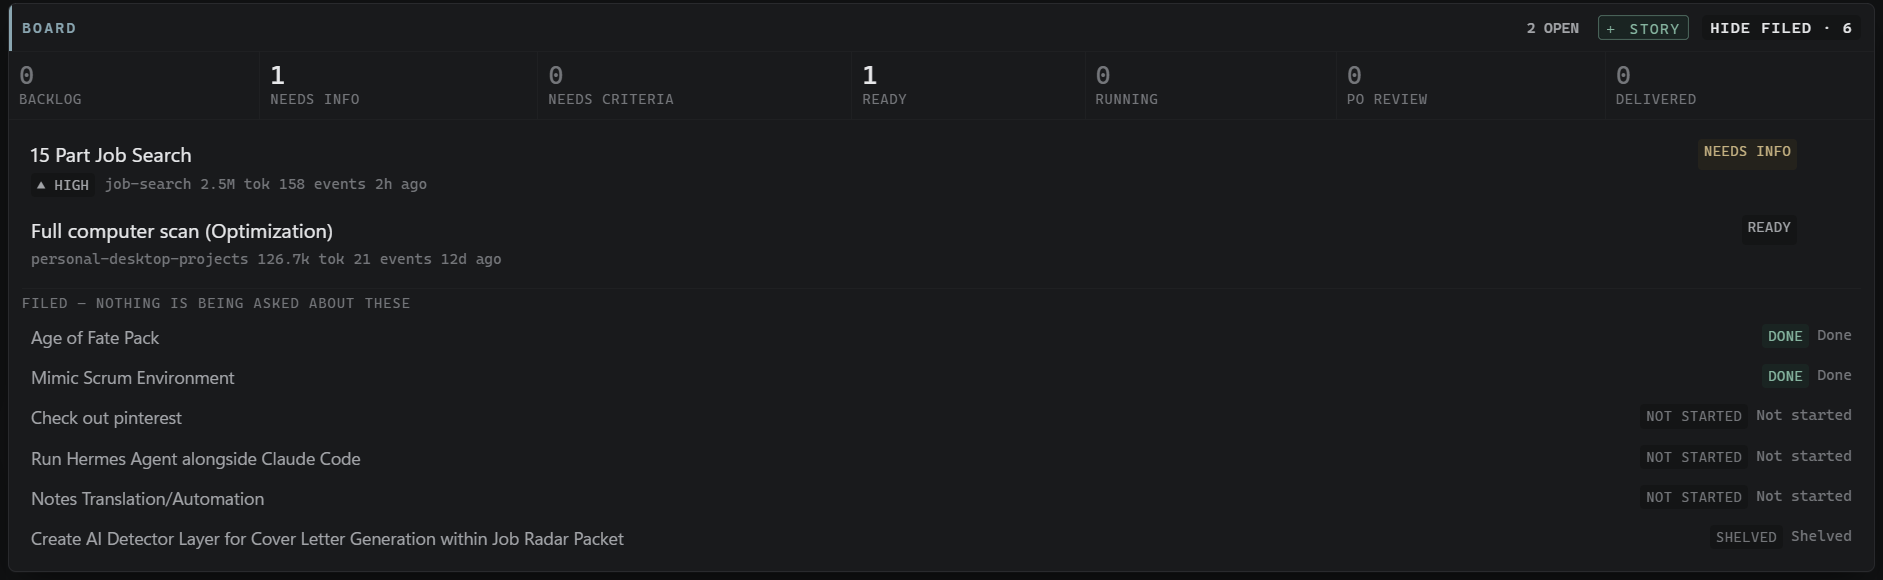
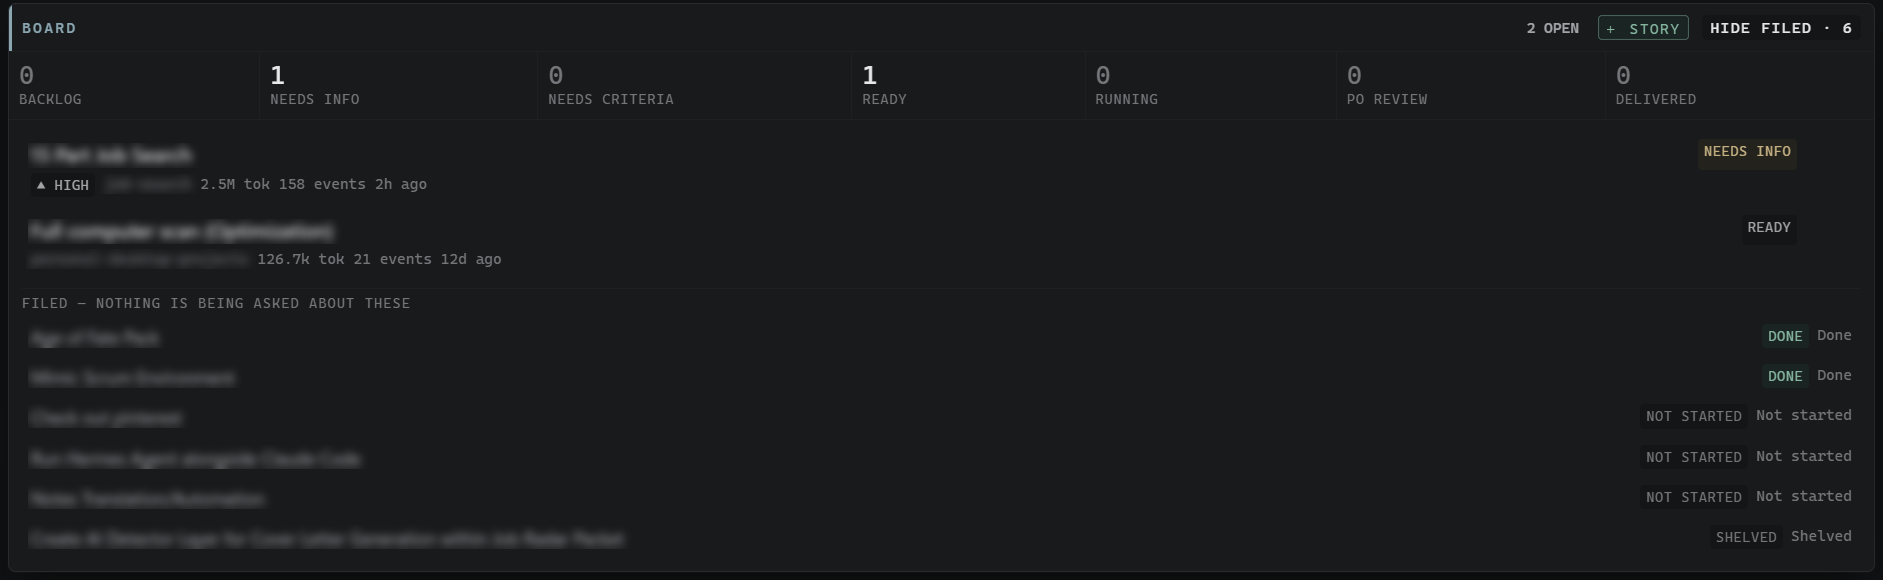
Exit a headless launch that did not bind the port
A headless launch that lost the bind race logged "reusing it" and then fell
into the sleep loop written for a process holding its own server thread. It
owned nothing and waited forever. Nine of them had piled up. `launch` now
tracks whether it actually bound the port, and a non-owner returns instead.

The two fallbacks out of the window path recursed back into `launch` to reach
that same sleep, which worked only because the recursion found the port taken
and idled anyway. They call `_idle` directly now, and only when they own it.

Screenshots: the folder names, story titles and chat messages in the README
images are one person's real projects and none of them are what the pictures
are there to show. Blurred, interface intact.

Claude-Session: https://claude.ai/code/session_01QoRDgDX5AspQmyNfwYoBaJ

diff --git a/tests/test_desktop.py b/tests/test_desktop.py
@@ -8,9 +8,12 @@ server was up, a QR code on screen, and a phone that loaded forever.
 
 from __future__ import annotations
 
+import contextlib
+import threading
 import unittest
 from unittest import mock
 
+import colony
 from colony import desktop
 
 LAN = "10.0.0.57"
@@ -46,6 +49,73 @@ class Reusable(unittest.TestCase):
         with self.marker(None):
             self.assertIsNone(desktop._reusable(desktop.HOST, 8787))
             self.assertIsNone(desktop._reusable(LAN, 8787))
+
+
+class HeadlessLaunchExits(unittest.TestCase):
+    """A headless launch that does not own the port has to end.
+
+    It used to log "reusing it" and then fall into the sleep loop meant for a
+    process holding its own daemon server thread. Nine of those had accumulated
+    before anyone counted the processes.
+    """
+
+    def setUp(self):
+        self.idled = []
+        # Lets a blocking stub server end with the test instead of
+        # spinning for the rest of the run.
+        self.released = threading.Event()
+        self.addCleanup(self.released.set)
+        idle = mock.patch.object(desktop, "_idle",
+                                 lambda: self.idled.append(True) or 0)
+        idle.start()
+        self.addCleanup(idle.stop)
+        for name, value in (("_wait_for_port", lambda h, p: True),
+                            ("_mark", lambda h, p: None),
+                            ("log", lambda *a, **k: None)):
+            patch = mock.patch.object(desktop, name, value)
+            patch.start()
+            self.addCleanup(patch.stop)
+
+    def serve(self, blocking: bool):
+        """Stand in for `server.serve`, either holding the thread or returning.
+
+        `from . import server` reads the attribute off the package when there is
+        one, and falls back to `sys.modules` otherwise, so both have to be
+        patched. Patching only `sys.modules` passes on its own and fails under
+        `unittest discover`, where an earlier test has already imported the real
+        module -- and then these tests bind port 8787 for real.
+        """
+        def _serve(host=None, port=None):
+            if blocking:
+                self.released.wait(10)
+
+        stub = mock.Mock(serve=_serve)
+        stack = contextlib.ExitStack()
+        stack.enter_context(mock.patch.dict("sys.modules",
+                                            {"colony.server": stub}))
+        stack.enter_context(mock.patch.object(colony, "server", stub,
+                                              create=True))
+        return stack
+
+    def test_a_reused_dashboard_returns_instead_of_sleeping(self):
+        with mock.patch.object(desktop, "_reusable", lambda h, p: LAN), \
+             self.serve(blocking=False):
+            self.assertEqual(desktop.launch(8787, window=False), 0)
+        self.assertEqual(self.idled, [])
+
+    def test_losing_the_bind_race_returns_instead_of_sleeping(self):
+        """The port is free when asked, and taken by the time we bind: the
+        serving thread ends, and so should the process."""
+        with mock.patch.object(desktop, "_reusable", lambda h, p: None), \
+             self.serve(blocking=False):
+            self.assertEqual(desktop.launch(8787, window=False), 0)
+        self.assertEqual(self.idled, [])
+
+    def test_owning_the_port_still_holds_the_process_open(self):
+        with mock.patch.object(desktop, "_reusable", lambda h, p: None), \
+             self.serve(blocking=True):
+            self.assertEqual(desktop.launch(8787, window=False), 0)
+        self.assertEqual(self.idled, [True])
 
 
 if __name__ == "__main__":

diff --git a/colony/desktop.py b/colony/desktop.py
@@ -160,6 +160,20 @@ def _set_window_icon(title: str, tries: int = 40) -> None:
         pass
 
 
+def _idle() -> int:
+    """Hold the process open for the daemon server thread it owns.
+
+    The server runs on a daemon thread, so returning from `launch` would take it
+    down with the interpreter. Only a process that actually bound the port has a
+    reason to sit here.
+    """
+    try:
+        while True:
+            time.sleep(3600)
+    except KeyboardInterrupt:
+        return 0
+
+
 def launch(port: int = DEFAULT_PORT, *, host: str = HOST, window: bool = True) -> int:
     from . import server
 
@@ -167,6 +181,11 @@ def launch(port: int = DEFAULT_PORT, *, host: str = HOST, window: bool = True) -
     # `0.0.0.0` is an address to listen on, not one to connect to, and the
     # desktop shell is on the machine doing the listening either way.
     local = HOST if host in ("0.0.0.0", "::") else host
+
+    # Whether *this* process ended up owning the port. It decides what happens
+    # when there is no window to hold the process open: an owner has a server
+    # thread to keep alive, and a non-owner has nothing left to do.
+    serving = False
 
     live = _reusable(local, port)
     if live:
@@ -211,23 +230,29 @@ def launch(port: int = DEFAULT_PORT, *, host: str = HOST, window: bool = True) -
         if not thread.is_alive():
             log(f"another dashboard bound {local}:{port} first — reusing it")
         else:
+            serving = True
             log(f"serving http://{host}:{port}")
             if host != HOST:
                 log("this is reachable from the network — the access token is "
                     "required on every request that is not the login page")
 
     if not window:
-        try:
-            while True:
-                time.sleep(3600)
-        except KeyboardInterrupt:
+        if not serving:
+            # Losing the race is the correct outcome, but for a headless launch
+            # it used to be an outcome with no exit. The process logged "reusing
+            # it", fell into the sleep below and stayed there, holding a console
+            # and a Python interpreter for a server it did not own. Nine of them
+            # had piled up before anyone looked. There is nothing to keep alive
+            # here: the dashboard that answers on this port lives in another
+            # process, and this one is done.
             return 0
+        return _idle()
 
     try:
         import webview
     except ImportError:
         log("pywebview not installed — running headless; open the URL above")
-        return launch(port, host=host, window=False)
+        return _idle() if serving else 0
 
     webview.create_window(
         "Colony Dash",
@@ -259,5 +284,5 @@ def launch(port: int = DEFAULT_PORT, *, host: str = HOST, window: bool = True) -
     except Exception:  # no WebView2 runtime, no display, etc.
         log("could not open a window; falling back to the browser URL\n"
             + traceback.format_exc())
-        return launch(port, host=host, window=False)
+        return _idle() if serving else 0
     return 0
